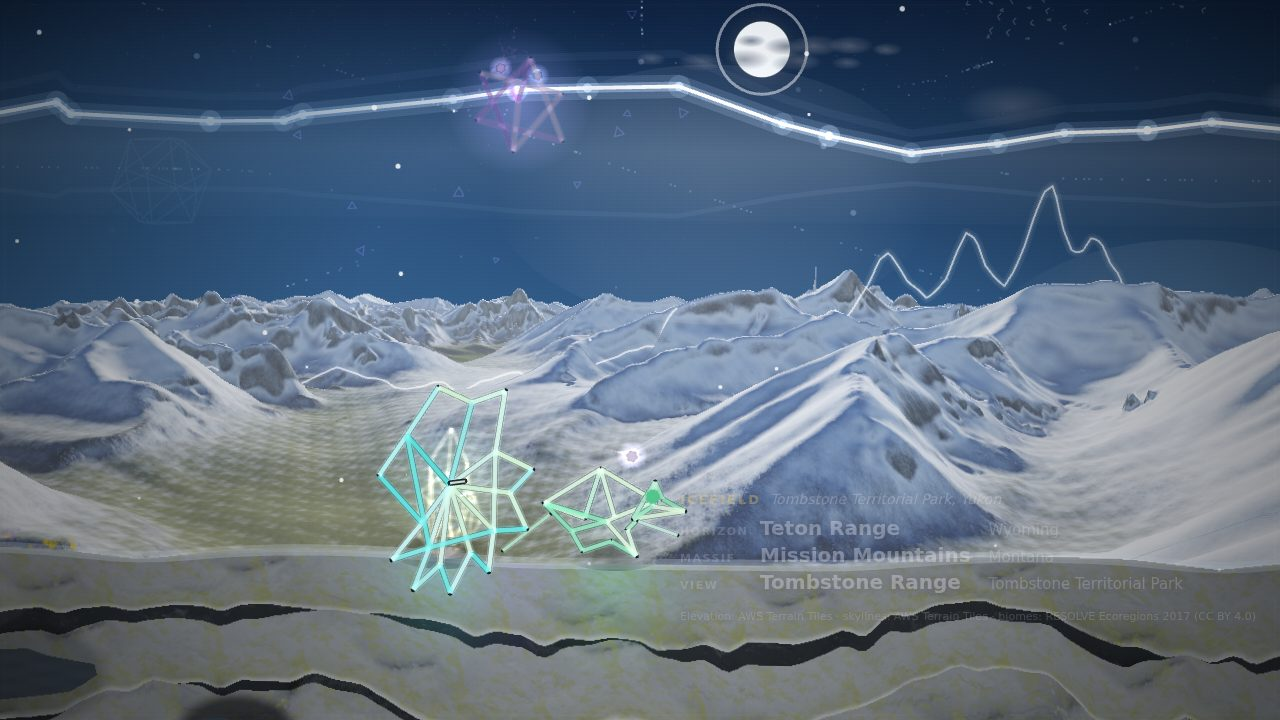
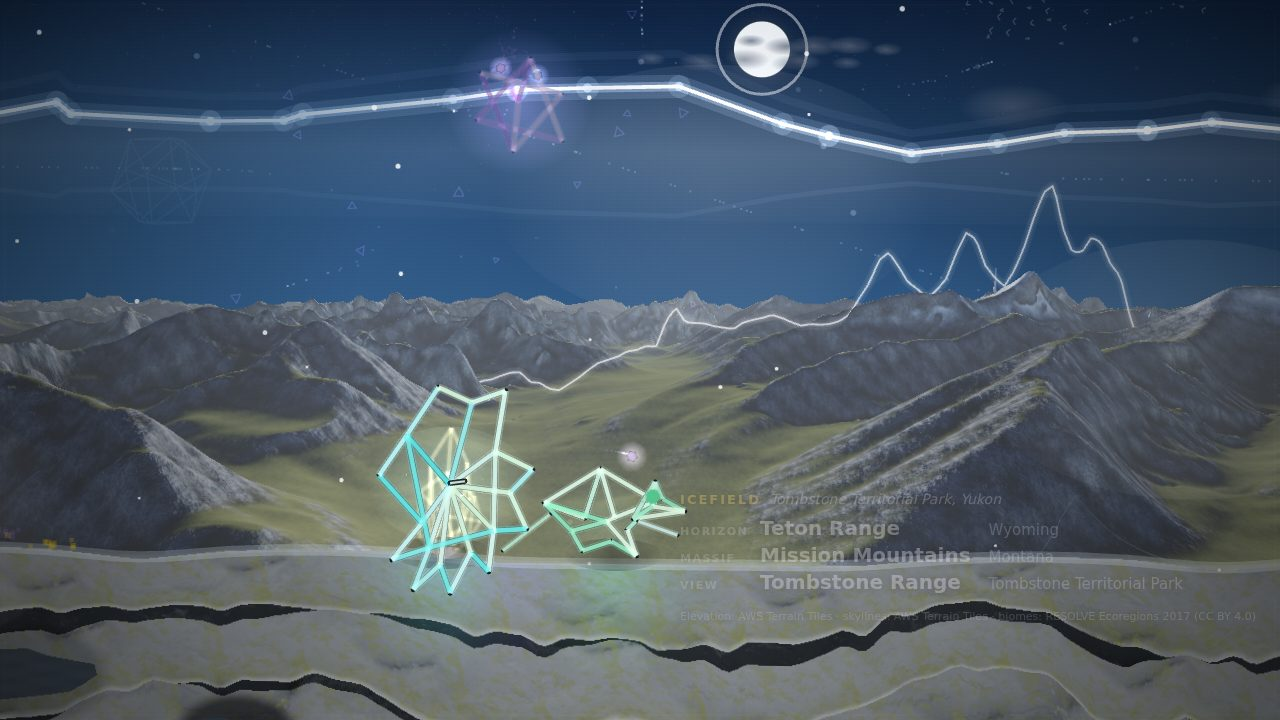
Range v2 Task 15: approve a view for every biome
Re-approve Ross Lake and the Tetons against their re-baked packages
(shoreline tiles only), and approve the eight new views: Tombstone,
Muncho Lake, Iztaccihuatl-Popocatepetl, Black Mountains, San Gabriel,
White Mountains, La Sal and Panamint. Each passed the far-crest gate
alone (>= 0.55 exposed, crest across >= half the frame at 21 stations)
and in travel against every other approved view (0 failing pairs).
Evidence per view: 21-station sheet and in-app frame at 10 s; Ross keeps
its pilot frames. Catalog version 15: 11 approved views, one per biome,
24 MB of runtime assets.

test/sceneCatalog.test.js now requires an approved view for every biome,
a material pack made for each view's own biome, deterministic song
assignment and an explicit legacy fallback for a biome without a view.

Claude-Session: https://claude.ai/code/session_01QGL8ByV2DqpcXuJJUYqyvu

diff --git a/src/world/terrain/sceneCatalogData.js b/src/world/terrain/sceneCatalogData.js
@@ -1,14 +1,14 @@
 // Generated by tools/build-range-scene.mjs --catalog from data/terrain/scenic-views.json.
 // Do not edit: change the authoring file and regenerate.
 export default {
- "catalogVersion": 5,
+ "catalogVersion": 15,
  "views": [
   {
    "id": "nc-ross-lake-north",
    "regionId": "north-cascades",
    "biome": "RAINFOREST",
-   "status": "candidate",
-   "catalogVersion": 5,
+   "status": "approved",
+   "catalogVersion": 15,
    "title": "Ross Lake",
    "place": "North Cascades, Washington",
    "credit": "Elevation: USGS 3DEP 1/3 arc-second DEM + AWS Terrain Tiles (beyond 3DEP coverage)",
@@ -50,7 +50,20 @@ export default {
    "evidence": {
     "reviewPath": "docs/range-v2-progress.md",
     "review": "2026-09-29 geometry/camera review (Task 4): 21 stations + continuous traverse, neutral/silhouette/depth/crop-edge modes. Connected real relief (Ross Lake chain, Jack Mountain spurs, Sourdough flanks); no crop-edge skyline, no cracks; terrain coverage 0.62-0.64, skyline top 0.28 of frame height. Geometry approved for material pilot; production status stays candidate until the Task 13 full pilot.",
-    "approval": null,
+    "approval": {
+     "date": "2026-09-29",
[4 lines of base64/hex data omitted]
+     "evidence": [
+      "docs/evidence/range-v2/nc-ross-lake-north-stations.jpg",
+      "docs/evidence/range-v2/nc-ross-lake-north-inapp-10s.jpg",
+      "docs/evidence/range-v2/pilot-ross-lake-calm-10s.jpg",
+      "docs/evidence/range-v2/pilot-ross-lake-energetic-32s.jpg",
+      "docs/evidence/range-v2/pilot-ross-lake-reflection-38s.jpg"
+     ]
+    },
     "sourceHashes": [
[2 lines of base64/hex data omitted]
@@ -128,8 +141,8 @@ export default {
    "id": "teton-jackson-lake",
    "regionId": "tetons",
    "biome": "CONIFER",
-   "status": "candidate",
-   "catalogVersion": 5,
+   "status": "approved",
+   "catalogVersion": 15,
    "title": "Teton Range",
    "place": "Jackson Lake, Wyoming",
    "credit": "Elevation: USGS 3DEP 1/3 arc-second DEM",
@@ -171,7 +184,17 @@ export default {
    "evidence": {
     "reviewPath": "docs/range-v2-progress.md",
     "review": null,
-    "approval": null,
+    "approval": {
+     "date": "2026-09-29",
[4 lines of base64/hex data omitted]
+     "evidence": [
+      "docs/evidence/range-v2/teton-jackson-lake-stations.jpg",
+      "docs/evidence/range-v2/teton-jackson-lake-inapp-10s.jpg"
+     ]
+    },
     "sourceHashes": [
[2 lines of base64/hex data omitted]
@@ -184,7 +207,7 @@ export default {
    "regionId": "alaska-range",
    "biome": "ICEFIELD",
    "status": "approved",
-   "catalogVersion": 5,
+   "catalogVersion": 15,
    "title": "Denali",
    "place": "Denali National Park, Alaska",
    "credit": "Elevation: AWS Terrain Tiles",
@@ -570,8 +593,8 @@ export default {
    "id": "tombstone-north-klondike",
    "regionId": "yukon-ranges",
    "biome": "TUNDRA",
-   "status": "candidate",
-   "catalogVersion": 5,
+   "status": "approved",
+   "catalogVersion": 15,
    "title": "Tombstone Range",
    "place": "Tombstone Territorial Park, Yukon",
    "credit": "Elevation: AWS Terrain Tiles",
@@ -613,7 +636,17 @@ export default {
    "evidence": {
     "reviewPath": "docs/range-v2-progress.md",
     "review": null,
-    "approval": null,
+    "approval": {
+     "date": "2026-09-29",
[4 lines of base64/hex data omitted]
+     "evidence": [
+      "docs/evidence/range-v2/tombstone-north-klondike-stations.jpg",
+      "docs/evidence/range-v2/tombstone-north-klondike-inapp-10s.jpg"
+     ]
+    },
     "sourceHashes": [
[2 lines of base64/hex data omitted]
@@ -767,8 +800,8 @@ export default {
    "id": "muncho-lake-south",
    "regionId": "tower-of-london-range",
    "biome": "TAIGA",
-   "status": "candidate",
-   "catalogVersion": 5,
+   "status": "approved",
+   "catalogVersion": 15,
    "title": "Muncho Lake",
    "place": "Northern Rockies, British Columbia",
    "credit": "Elevation: AWS Terrain Tiles",
@@ -810,7 +843,17 @@ export default {
    "evidence": {
     "reviewPath": "docs/range-v2-progress.md",
     "review": null,
-    "approval": null,
+    "approval": {
+     "date": "2026-09-29",
[4 lines of base64/hex data omitted]
+     "evidence": [
+      "docs/evidence/range-v2/muncho-lake-south-stations.jpg",
+      "docs/evidence/range-v2/muncho-lake-south-inapp-10s.jpg"
+     ]
+    },
     "sourceHashes": [
[2 lines of base64/hex data omitted]
@@ -920,8 +963,8 @@ export default {
    "id": "izta-popo-west",
    "regionId": "trans-mexican-volcanic-belt",
    "biome": "PINE_OAK",
-   "status": "candidate",
-   "catalogVersion": 5,
+   "status": "approved",
+   "catalogVersion": 15,
    "title": "Iztaccíhuatl and Popocatépetl",
    "place": "Trans-Mexican Volcanic Belt, México",
    "credit": "Elevation: AWS Terrain Tiles",
@@ -963,7 +1006,17 @@ export default {
    "evidence": {
     "reviewPath": "docs/range-v2-progress.md",
     "review": null,
-    "approval": null,
+    "approval": {
+     "date": "2026-09-29",
[4 lines of base64/hex data omitted]
+     "evidence": [
+      "docs/evidence/range-v2/izta-popo-west-stations.jpg",
+      "docs/evidence/range-v2/izta-popo-west-inapp-10s.jpg"
+     ]
+    },
     "sourceHashes": [
[2 lines of base64/hex data omitted]
@@ -1022,8 +1075,8 @@ export default {
    "id": "black-mountains-catawba",
    "regionId": "blue-ridge",
    "biome": "BROADLEAF",
-   "status": "candidate",
-   "catalogVersion": 5,
+   "status": "approved",
+   "catalogVersion": 15,
    "title": "Black Mountains",
    "place": "Blue Ridge, North Carolina",
    "credit": "Elevation: USGS 3DEP 1/3 arc-second DEM",
@@ -1065,7 +1118,17 @@ export default {
    "evidence": {
     "reviewPath": "docs/range-v2-progress.md",
     "review": null,
-    "approval": null,
+    "approval": {
+     "date": "2026-09-29",
[4 lines of base64/hex data omitted]
+     "evidence": [
+      "docs/evidence/range-v2/black-mountains-catawba-stations.jpg",
+      "docs/evidence/range-v2/black-mountains-catawba-inapp-10s.jpg"
+     ]
+    },
     "sourceHashes": [
[2 lines of base64/hex data omitted]
@@ -1076,8 +1139,8 @@ export default {
    "id": "san-gabriel-baldy",
    "regionId": "san-gabriel-mountains",
    "biome": "CHAPARRAL",
-   "status": "candidate",
-   "catalogVersion": 5,
+   "status": "approved",
+   "catalogVersion": 15,
    "title": "San Gabriel Mountains",
    "place": "Angeles National Forest, California",
    "credit": "Elevation: USGS 3DEP 1/3 arc-second DEM",
@@ -1119,7 +1182,17 @@ export default {
    "evidence": {
     "reviewPath": "docs/range-v2-progress.md",
     "review": null,
-    "approval": null,
+    "approval": {
+     "date": "2026-09-29",
[4 lines of base64/hex data omitted]
+     "evidence": [
+      "docs/evidence/range-v2/san-gabriel-baldy-stations.jpg",
+      "docs/evidence/range-v2/san-gabriel-baldy-inapp-10s.jpg"
+     ]
+    },
     "sourceHashes": [
[2 lines of base64/hex data omitted]
@@ -1130,8 +1203,8 @@ export default {
    "id": "white-mountains-owens",
    "regionId": "white-mountains",
    "biome": "STEPPE",
-   "status": "candidate",
-   "catalogVersion": 5,
+   "status": "approved",
+   "catalogVersion": 15,
    "title": "White Mountains",
    "place": "Owens Valley, California",
    "credit": "Elevation: USGS 3DEP 1/3 arc-second DEM",
@@ -1173,7 +1246,17 @@ export default {
    "evidence": {
     "reviewPath": "docs/range-v2-progress.md",
     "review": null,
-    "approval": null,
+    "approval": {
+     "date": "2026-09-29",
[4 lines of base64/hex data omitted]
+     "evidence": [
+      "docs/evidence/range-v2/white-mountains-owens-stations.jpg",
+      "docs/evidence/range-v2/white-mountains-owens-inapp-10s.jpg"
+     ]
+    },
     "sourceHashes": [
[2 lines of base64/hex data omitted]
@@ -1184,8 +1267,8 @@ export default {
    "id": "la-sal-castle-valley",
    "regionId": "la-sal-mountains",
    "biome": "CANYON",
-   "status": "candidate",
-   "catalogVersion": 5,
+   "status": "approved",
+   "catalogVersion": 15,
    "title": "La Sal Mountains",
    "place": "Castle Valley, Utah",
    "credit": "Elevation: USGS 3DEP 1/3 arc-second DEM",
@@ -1227,7 +1310,17 @@ export default {
    "evidence": {
     "reviewPath": "docs/range-v2-progress.md",
     "review": null,
-    "approval": null,
+    "approval": {
+     "date": "2026-09-29",
[4 lines of base64/hex data omitted]
+     "evidence": [
+      "docs/evidence/range-v2/la-sal-castle-valley-stations.jpg",
+      "docs/evidence/range-v2/la-sal-castle-valley-inapp-10s.jpg"
+     ]
+    },
     "sourceHashes": [
[2 lines of base64/hex data omitted]
@@ -1238,8 +1331,8 @@ export default {
    "id": "panamint-dantes-view",
    "regionId": "panamint-range",
    "biome": "DESERT",
-   "status": "candidate",
-   "catalogVersion": 5,
+   "status": "approved",
+   "catalogVersion": 15,
    "title": "Panamint Range",
    "place": "Death Valley, California",
    "credit": "Elevation: USGS 3DEP 1/3 arc-second DEM",
@@ -1281,7 +1374,17 @@ export default {
    "evidence": {
     "reviewPath": "docs/range-v2-progress.md",
     "review": null,
-    "approval": null,
+    "approval": {
+     "date": "2026-09-29",
[4 lines of base64/hex data omitted]
+     "evidence": [
+      "docs/evidence/range-v2/panamint-dantes-view-stations.jpg",
+      "docs/evidence/range-v2/panamint-dantes-view-inapp-10s.jpg"
+     ]
+    },
     "sourceHashes": [
[2 lines of base64/hex data omitted]

diff --git a/test/sceneCatalog.test.js b/test/sceneCatalog.test.js
@@ -102,3 +102,45 @@ test('the shipped catalog validates and contains no rejected view', () => {
   assert.deepEqual(r.errors, []);
   assert.ok(catalogData.views.every((v) => v.status !== 'rejected'));
 });
+
+// Range v2 Task 15: the delivered catalog covers every biome.
+const BIOMES = ['ICEFIELD', 'TUNDRA', 'TAIGA', 'RAINFOREST', 'CONIFER', 'PINE_OAK', 'BROADLEAF', 'CHAPARRAL', 'STEPPE', 'CANYON', 'DESERT'];
+
+test('every biome has at least one approved scene in the shipped catalog', () => {
+  for (const biome of BIOMES) {
+    assert.ok(catalogData.views.some((v) => v.biome === biome && v.status === 'approved'), `${biome} has no approved view`);
+  }
+  assert.ok(catalogData.views.length >= 11 && catalogData.views.length <= 18, `${catalogData.views.length} views`);
+});
+
+test("each shipped view wears a material pack made for its own biome", async () => {
+  const fs = await import('node:fs/promises');
+  const { REAL_BIOMES } = await import('../src/world/RealBiomes.js');
+  const names = new Set(REAL_BIOMES.map((b) => b.name));
+  for (const v of catalogData.views) {
+    assert.ok(names.has(v.biome), `${v.id}: unknown biome ${v.biome}`);
+    const pack = JSON.parse(await fs.readFile(new URL(`../src/assets/range/v2/${v.materialManifestUrl}`, import.meta.url), 'utf8'));
+    assert.ok(pack.biomes.includes(v.biome), `${v.id}: pack ${pack.id} is not for ${v.biome}`);
+  }
+});
+
+test('a song through every biome gets each biome its own view, deterministically', () => {
+  for (const seed of [1, 42, 9001]) {
+    const map = assignSongScenes(BIOMES, profile(), seed, catalogData);
+    const again = assignSongScenes(BIOMES, profile(), seed, catalogData);
+    for (const biome of BIOMES) {
+      const v = map.get(biome).view;
+      assert.ok(v, `${biome}: no view`);
+      assert.equal(v.biome, biome);
+      assert.equal(v.status, 'approved');
+      assert.equal(again.get(biome).view.id, v.id, `${biome}: assignment is not deterministic`);
+    }
+  }
+});
+
+test('without an approved view a biome falls back to legacy scenery explicitly', () => {
+  const pruned = { ...catalogData, views: catalogData.views.filter((v) => v.biome !== 'DESERT') };
+  const c = chooseSceneForBiome('DESERT', profile(), 5, pruned);
+  assert.equal(c.view, null);
+  assert.ok(c.fallbackReason);
+});
